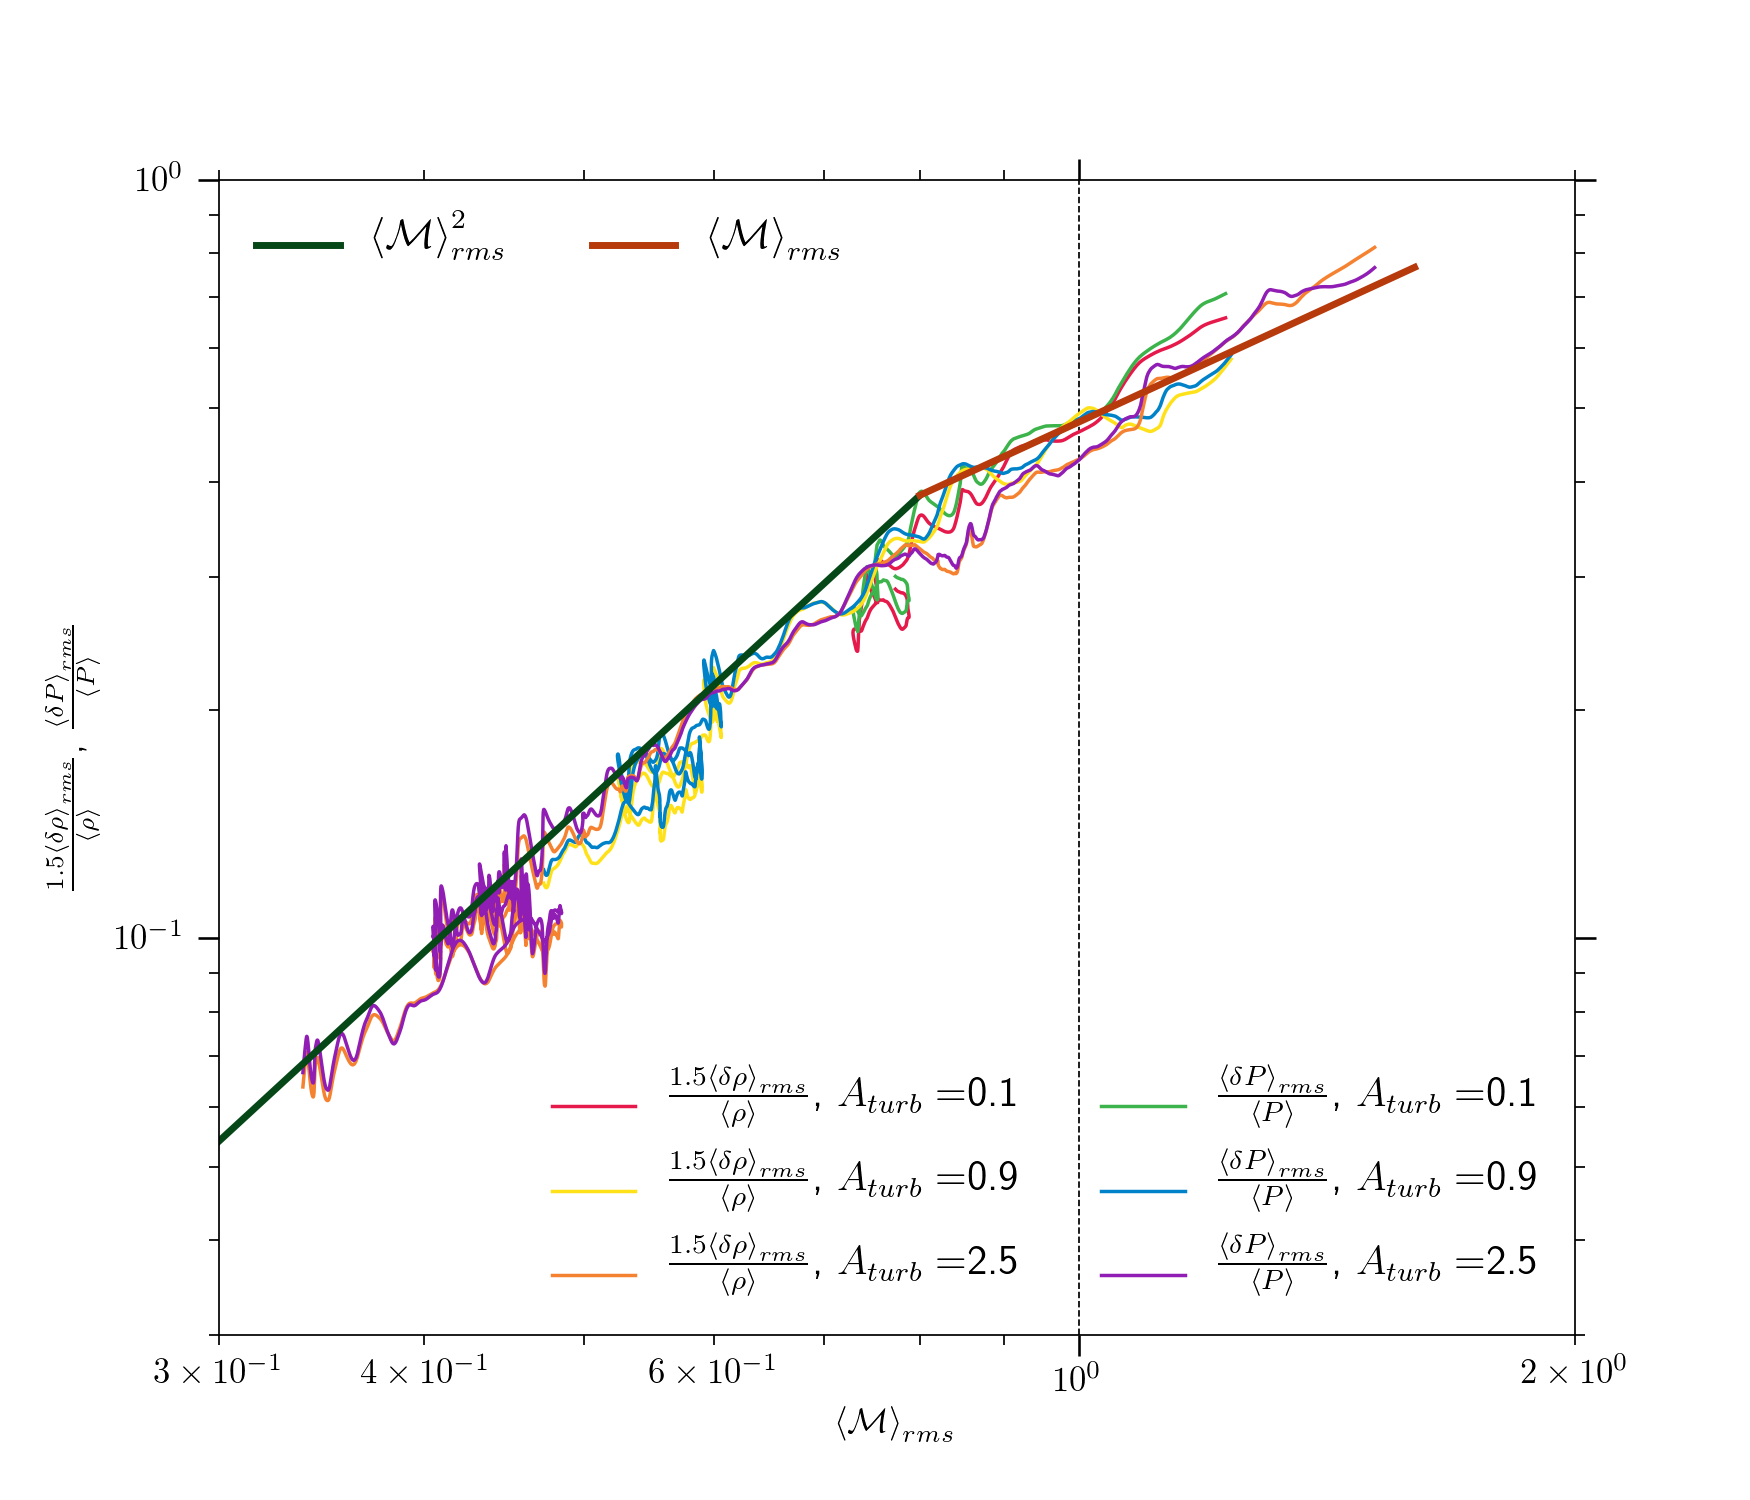
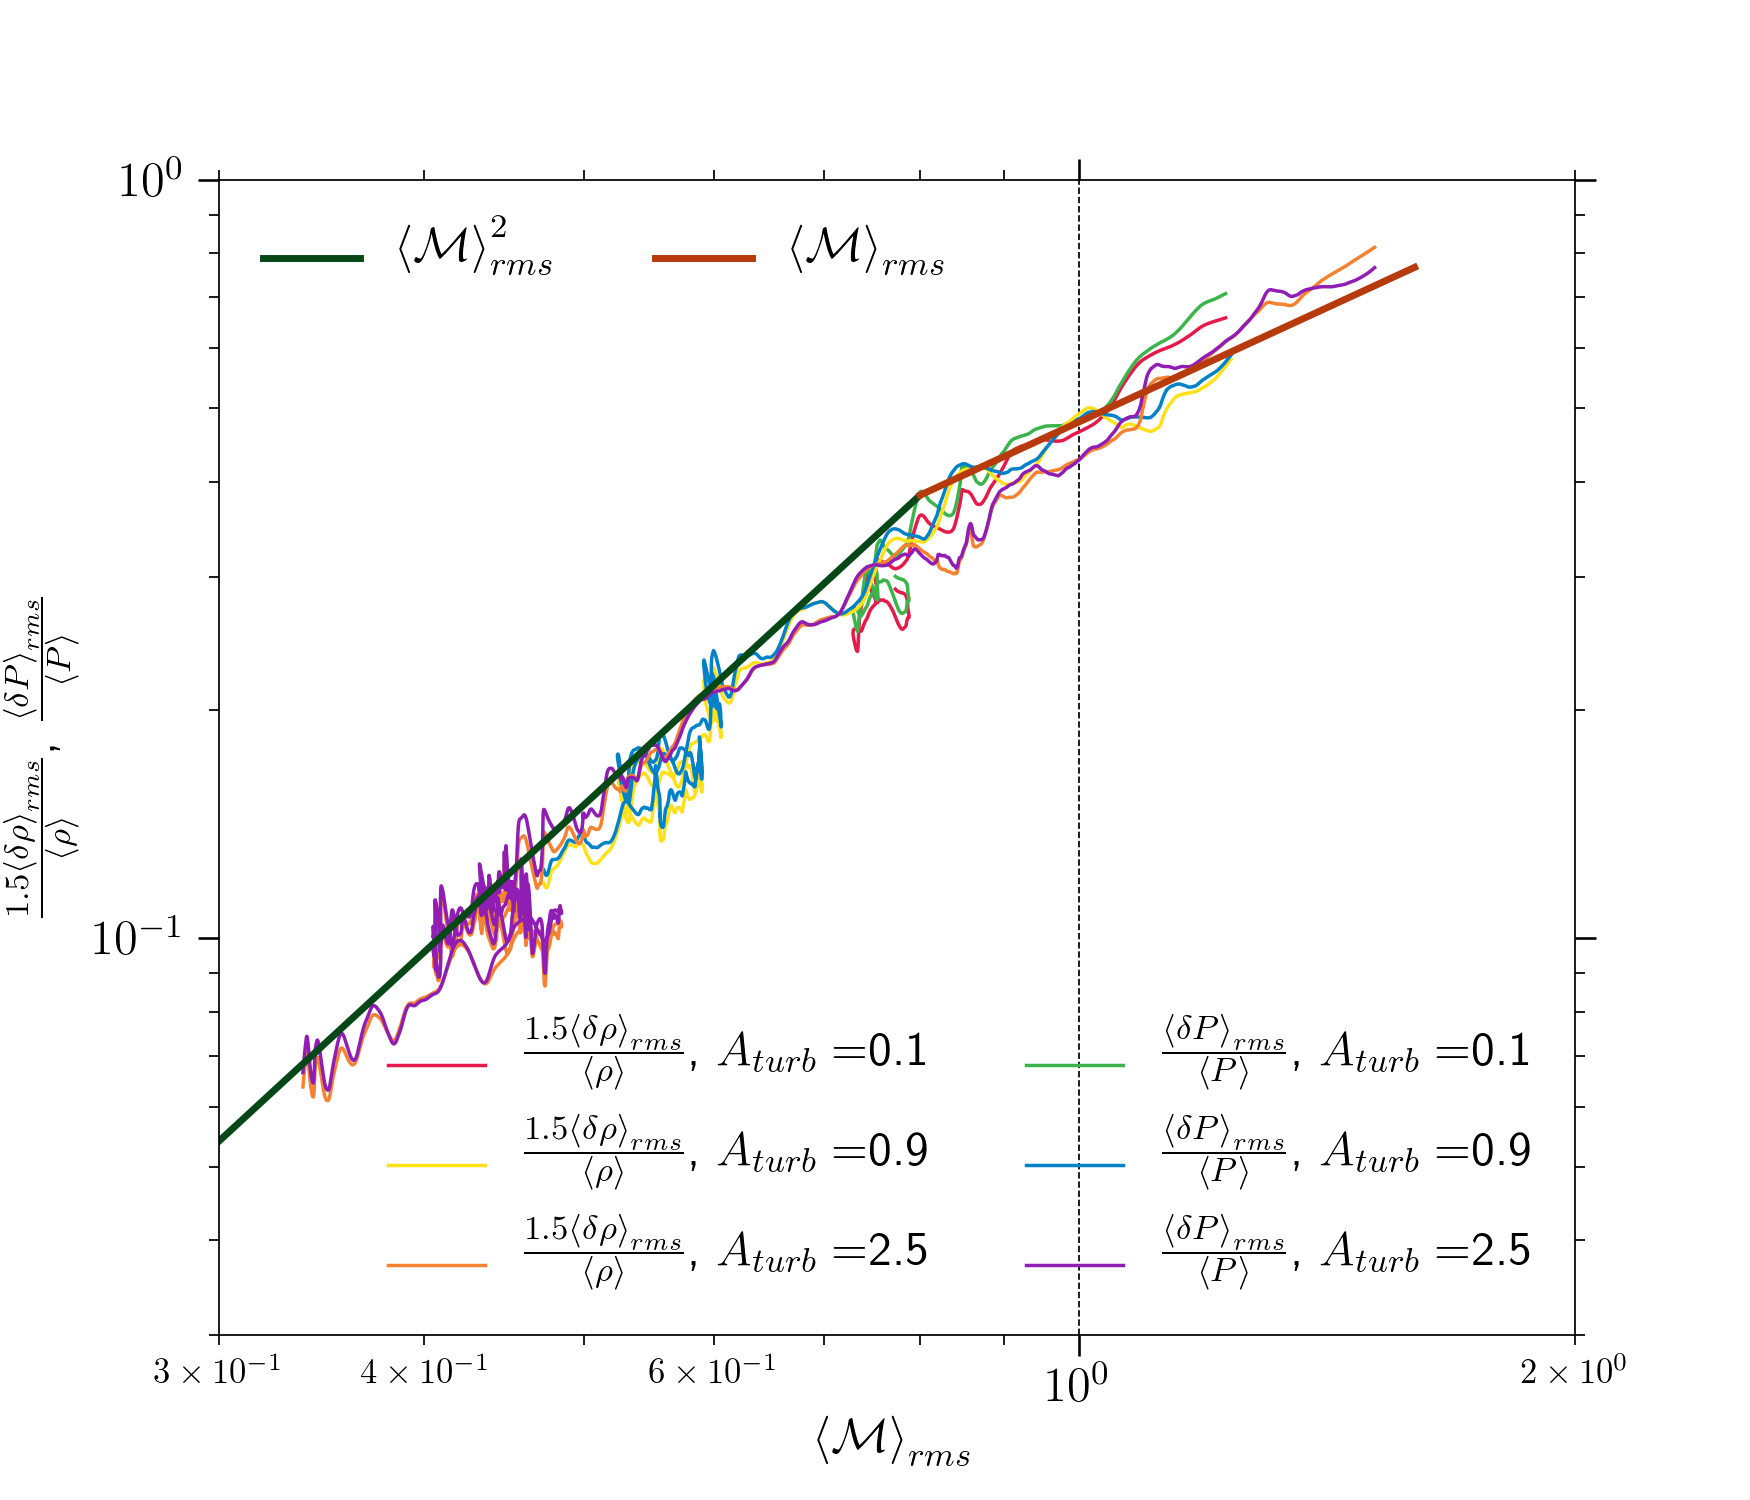
Edited a plot

diff --git a/rho-mach/density_mach_256.py b/rho-mach/density_mach_256.py
@@ -3,7 +3,7 @@ import matplotlib.pyplot as plt
 import pylab as plot
 
 #plt.style.use('classic')
-params = {'legend.fontsize':12,
+params = {'legend.fontsize':14,
           'legend.handlelength': 2}
 plt.rcParams['axes.linewidth'] = 0.5
 plt.rcParams['xtick.major.size'] = 8
@@ -11,6 +11,8 @@ plt.rcParams['xtick.minor.size'] = 4
 plt.rcParams['ytick.major.size'] = 6
 plt.rcParams['ytick.minor.size'] = 3
 plt.rcParams['ytick.minor.size'] = 3
+
+
 plot.rcParams.update(params)
 
 plt.rc('text', usetex=True)
@@ -44,10 +46,13 @@ for i1 in xrange(0,np.shape(amp)[0]):
 	perturb[i1+3], =ax.plot(data[:,11],data[:,13],label=r'$\frac{\left<\delta P\right>_{rms}}{\left< P\right>}$, $A_{turb}=$'+str(amp[i1]), color=colors[2*i1+1], marker="d", markeredgecolor='none', markersize=0.1, linewidth=1.0)
 
 fig.set_size_inches(7, 6)
-ax.set_xlabel(r'$\left< \mathcal{M}\right>_{rms}$')
-ax.set_ylabel(r'$\frac{1.5\left<\delta\rho\right>_{rms}}{\left<\rho\right>}$, $\frac{\left<\delta P\right>_{rms}}{\left< P\right>}$')
+ax.set_xlabel(r'$\left< \mathcal{M}\right>_{rms}$', fontsize=14)
+ax.set_ylabel(r'$\frac{1.5\left<\delta\rho\right>_{rms}}{\left<\rho\right>}$, $\frac{\left<\delta P\right>_{rms}}{\left< P\right>}$', fontsize=14)
 x1=np.arange(0.3,0.8,0.002)
 y=np.arange(0.8,1.6,0.002)
+
+plt.xticks(fontsize=14)
+plt.yticks(fontsize=14)
 
 fit[0],= ax.plot(x1,0.6*x1**2,label=r'$\left< \mathcal{M}\right>_{rms}^2$', color=colors[9], linewidth=2.)
 fit[1],= ax.plot(y,0.48*y**1,label=r'$\left< \mathcal{M}\right>_{rms}$', color=colors[6], linewidth=2.)
@@ -63,10 +68,10 @@ box = ax.get_position()
 ax.set_position([box.x0, box.y0, box.width, box.height])
 # Put a legend to the bottom of the current axis
 
-perturb_leg=ax.legend(handles=perturb, loc='lower right', bbox_to_anchor=(1., 0.0), ncol=2)
+perturb_leg=ax.legend(handles=perturb, loc='lower right', bbox_to_anchor=(1., 0.0), ncol=2, fontsize=14)
 ax.add_artist(perturb_leg)
 perturb_leg.get_frame().set_alpha(0.)
-fit_leg=ax.legend(handles=fit, loc='upper left', bbox_to_anchor=(0., 1.0), ncol=2)
+fit_leg=ax.legend(handles=fit, loc='upper left', bbox_to_anchor=(0., 1.0), ncol=2, fontsize=14)
 fit_leg.get_frame().set_alpha(0.)
 
 ax.grid(color='black', linestyle='dashed', linewidth=.5, axis='x')
